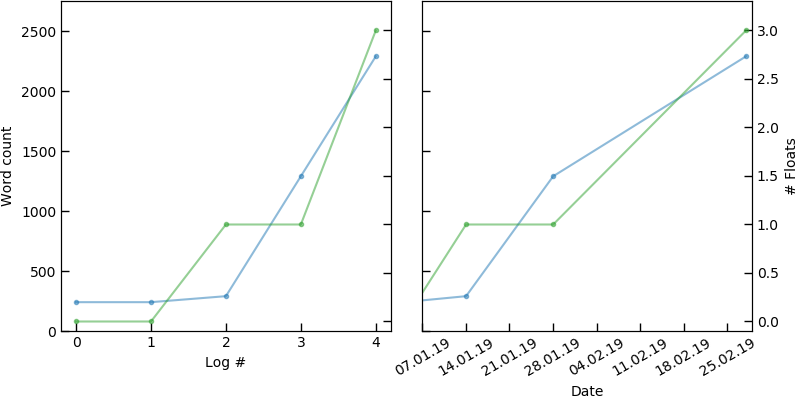
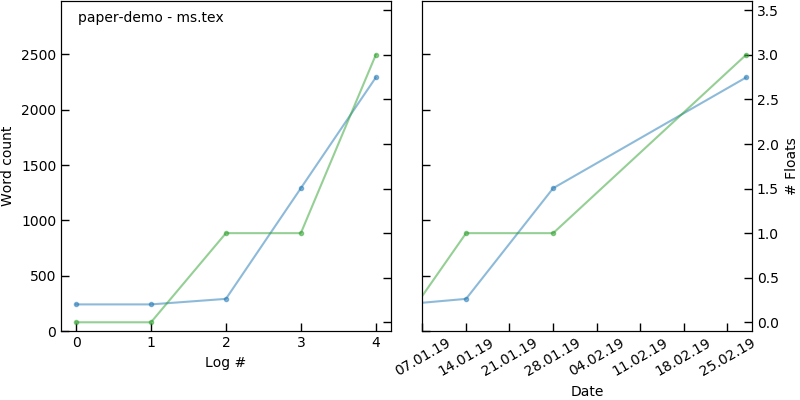
label

diff --git a/texcount.py b/texcount.py
@@ -68,25 +68,28 @@ def make_plot(log_file='word_count.csv', plot_file='word_count.png', verbose=Tru
     # by log
     ax = fig.add_subplot(121)
     ax.plot(tab['Words in text'], label='# Words', color=colors[0], marker='.', alpha=0.5)
-    ax.set_ylim(-0.1, np.maximum(last_count,1)*1.2)
+    ax.set_ylim(-0.1, np.maximum(last_count,1)*1.3)
     ax.set_xlabel('Log #')
     ax.set_ylabel('Word count')
     
+    repo = os.path.split(os.getcwd())[-1]
+    ax.text(0.05, 0.97, '{0} - {1}'.format(repo, tab['File'][0]), transform=ax.transAxes, ha='left', va='top')
+    
     axf = ax.twinx()
     axf.plot(tab['Number of floats/tables/figures'], label='# Words', color=colors[2], marker='.', alpha=0.5)
-    axf.set_ylim(-0.1, np.maximum(last_float,1)*1.1)
+    axf.set_ylim(-0.1, np.maximum(last_float,1)*1.2)
     axf.set_yticklabels([])
     
     # By date    
     ax = fig.add_subplot(122)
     ax.plot_date(t.plot_date, tab['Words in text'], label='# Words', color=colors[0], marker='.', alpha=0.5, linestyle='-')
-    ax.set_ylim(-0.1, np.maximum(last_count,1)*1.2)
+    ax.set_ylim(-0.1, np.maximum(last_count,1)*1.3)
     ax.set_xlabel('Date')
     ax.set_yticklabels([])
     
     axf = ax.twinx()
     axf.plot_date(t.plot_date, tab['Number of floats/tables/figures'], label='# Words', color=colors[2], marker='.', linestyle='-', alpha=0.5)
-    axf.set_ylim(-0.1, np.maximum(last_float,1)*1.1)
+    axf.set_ylim(-0.1, np.maximum(last_float,1)*1.2)
     axf.set_ylabel('# Floats')
     
     rule = rrulewrapper(DAILY, interval=7)#, byeaster=1, interval=5)
